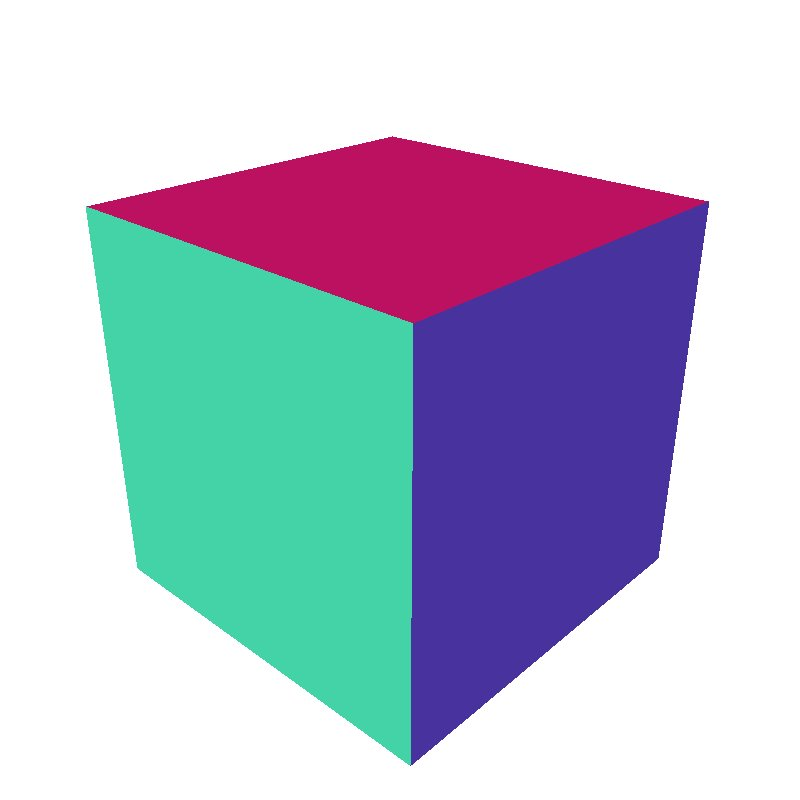
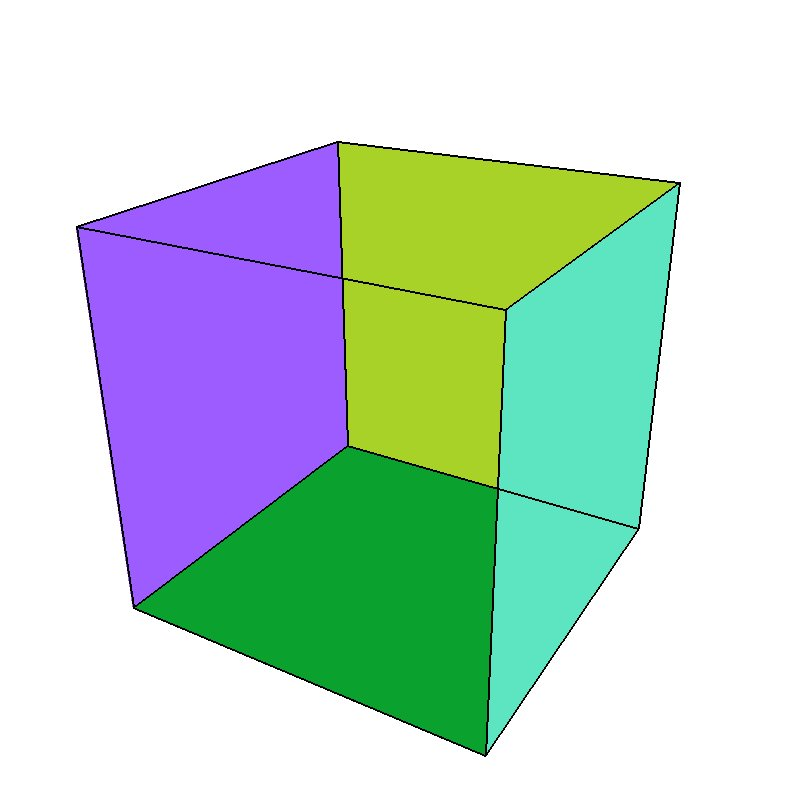
new 3d rot images, moved old to bfc, readme

diff --git a/README.md b/README.md
@@ -26,6 +26,8 @@ Initially inspred by mattbatwings "[I Made a 3D Renderer with just redstone!](ht
 - **Math:** [Surface Normal Dot Product](https://en.wikipedia.org/wiki/Back-face_culling#Implementation)
 - **Tutorial:** [3D Programming Fundamentals [Backface Culling] (ChiliTomatoNoodle)](https://youtu.be/h_Aqol0oTs4)
 
+<img src="https://github.com/DannyVC123/3D-Engine-Python/blob/main/res/images/screenshots/20_bfc_0.jpg" style="height:200px;"/><img src="https://github.com/DannyVC123/3D-Engine-Python/blob/main/res/images/screenshots/21_bfc_1.jpg" style="height:200px;"/><img src="https://github.com/DannyVC123/3D-Engine-Python/blob/main/res/images/screenshots/22_bfc_2.jpg" style="height:200px;"/>
+
 ## Flat Shading
 - Dynamic lighting for each face of the model
 - **Math:** [Lambertian Reflectance](https://en.wikipedia.org/wiki/Lambertian_reflectance#Use_in_computer_graphics)
